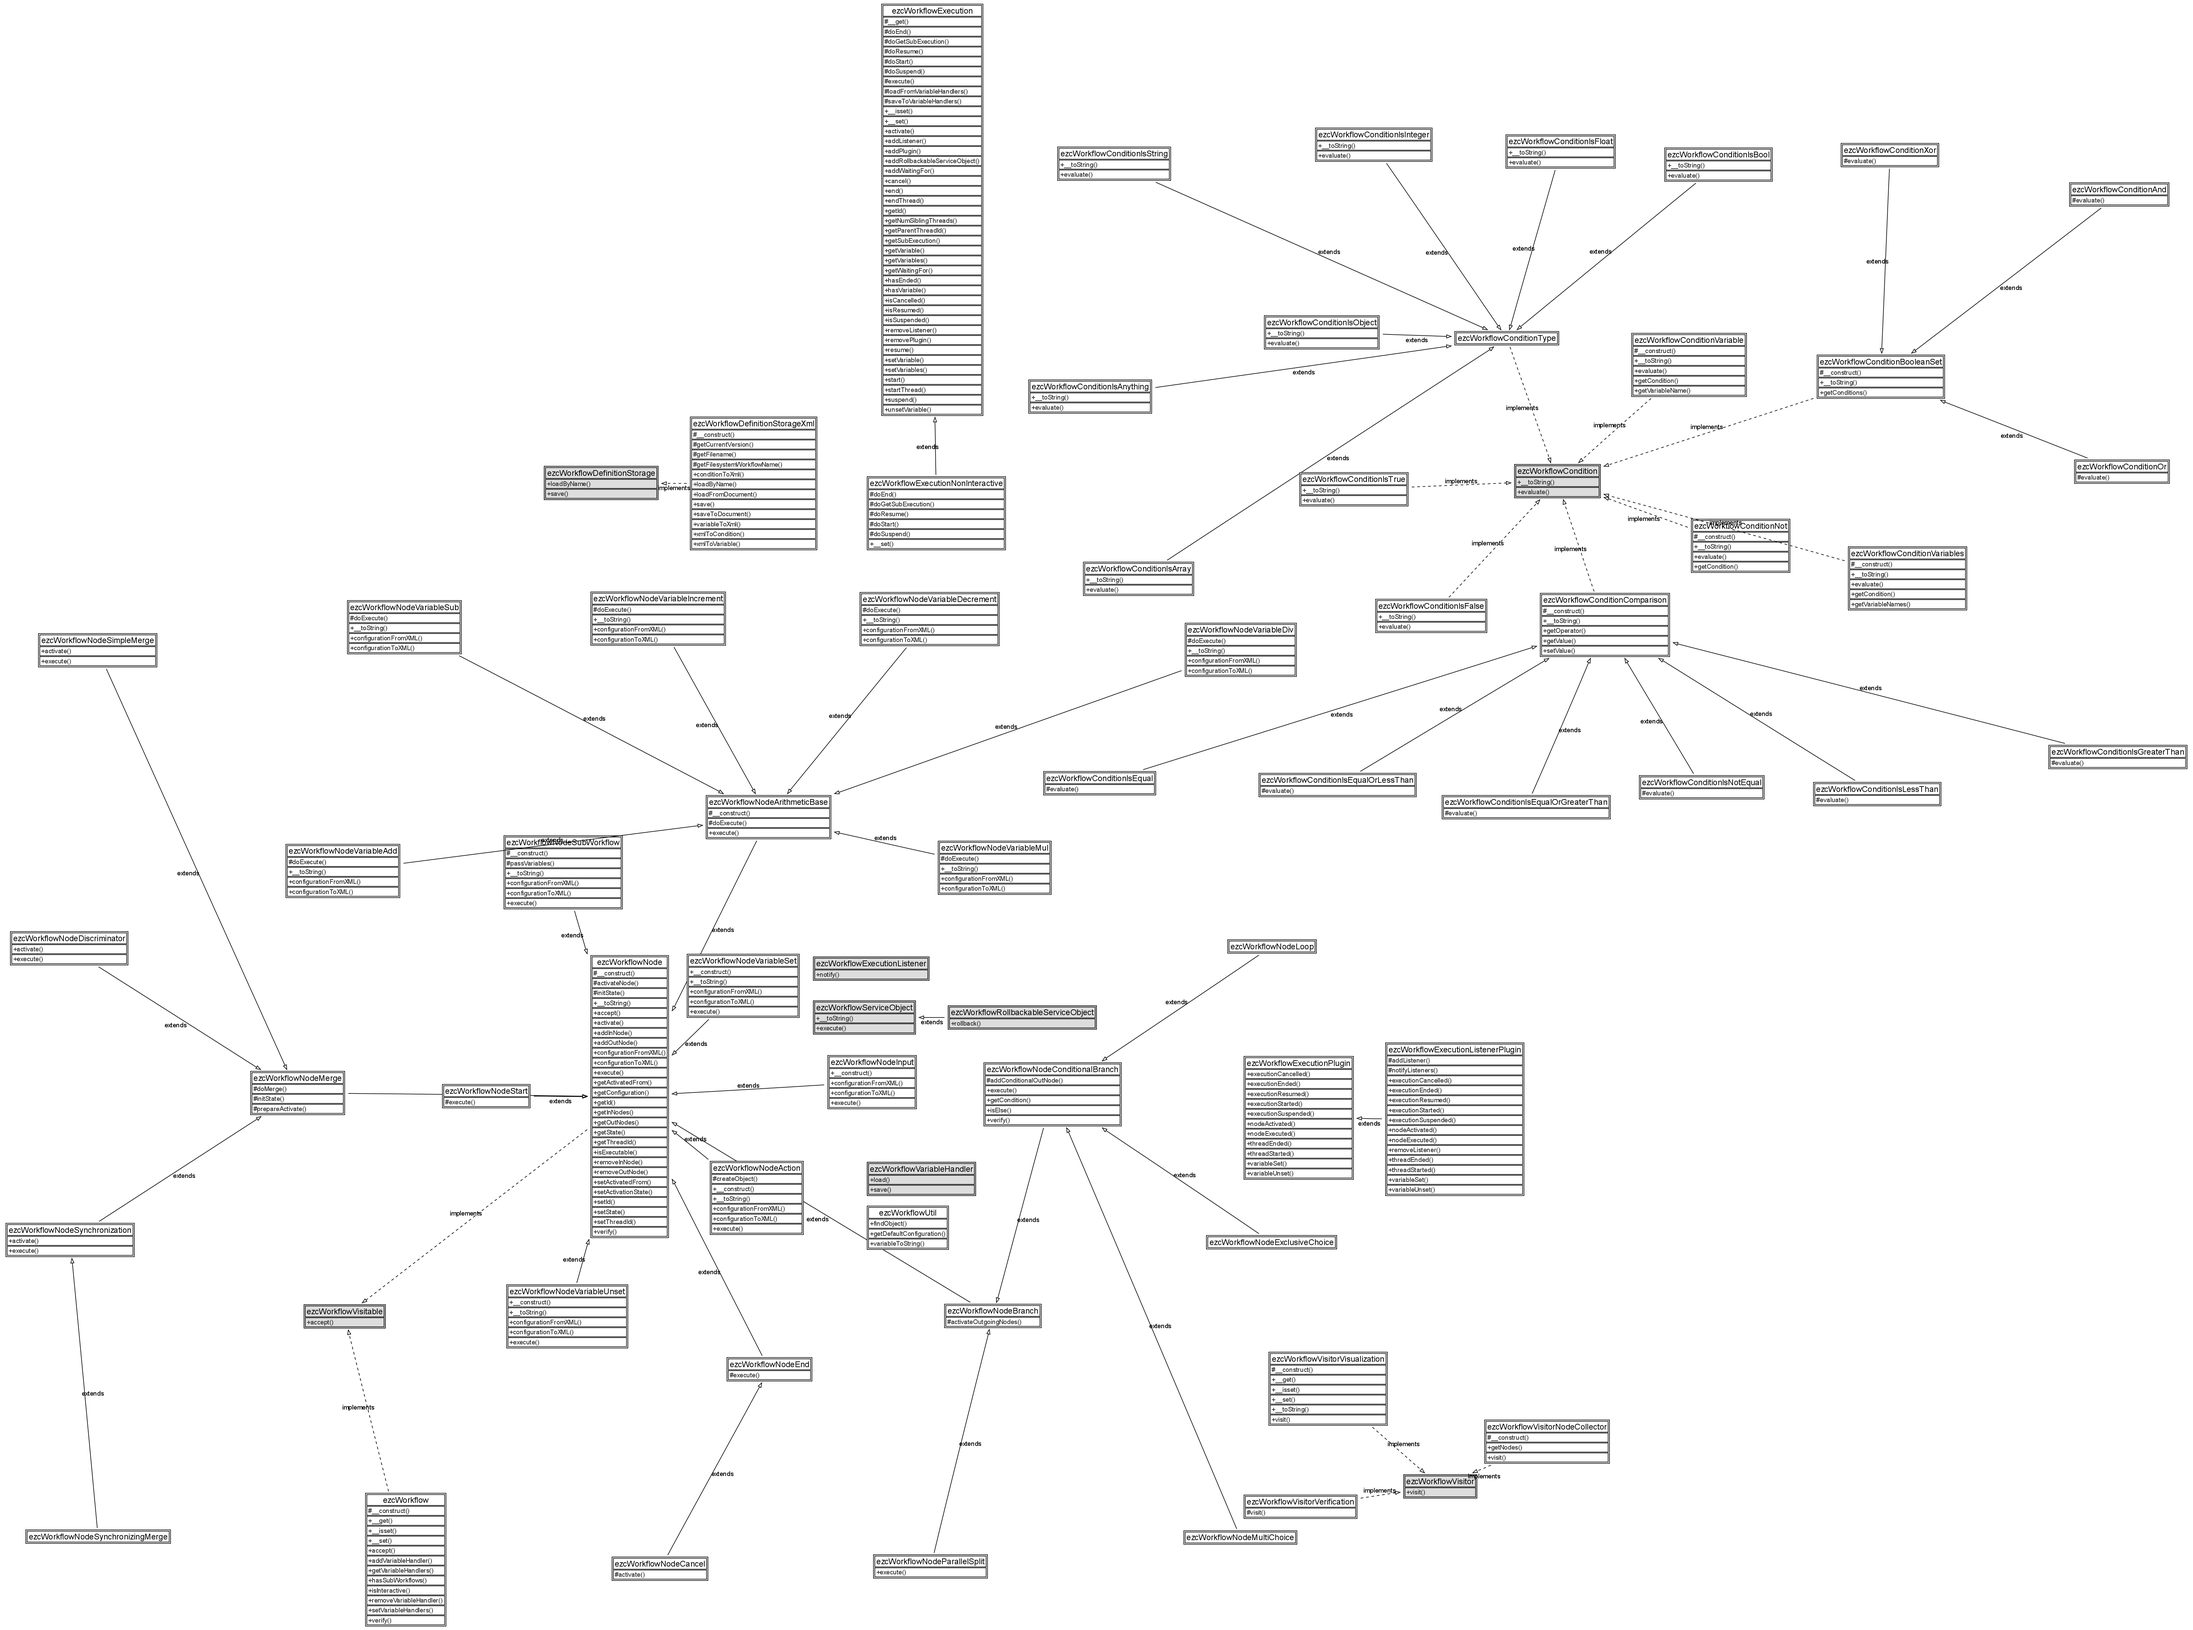
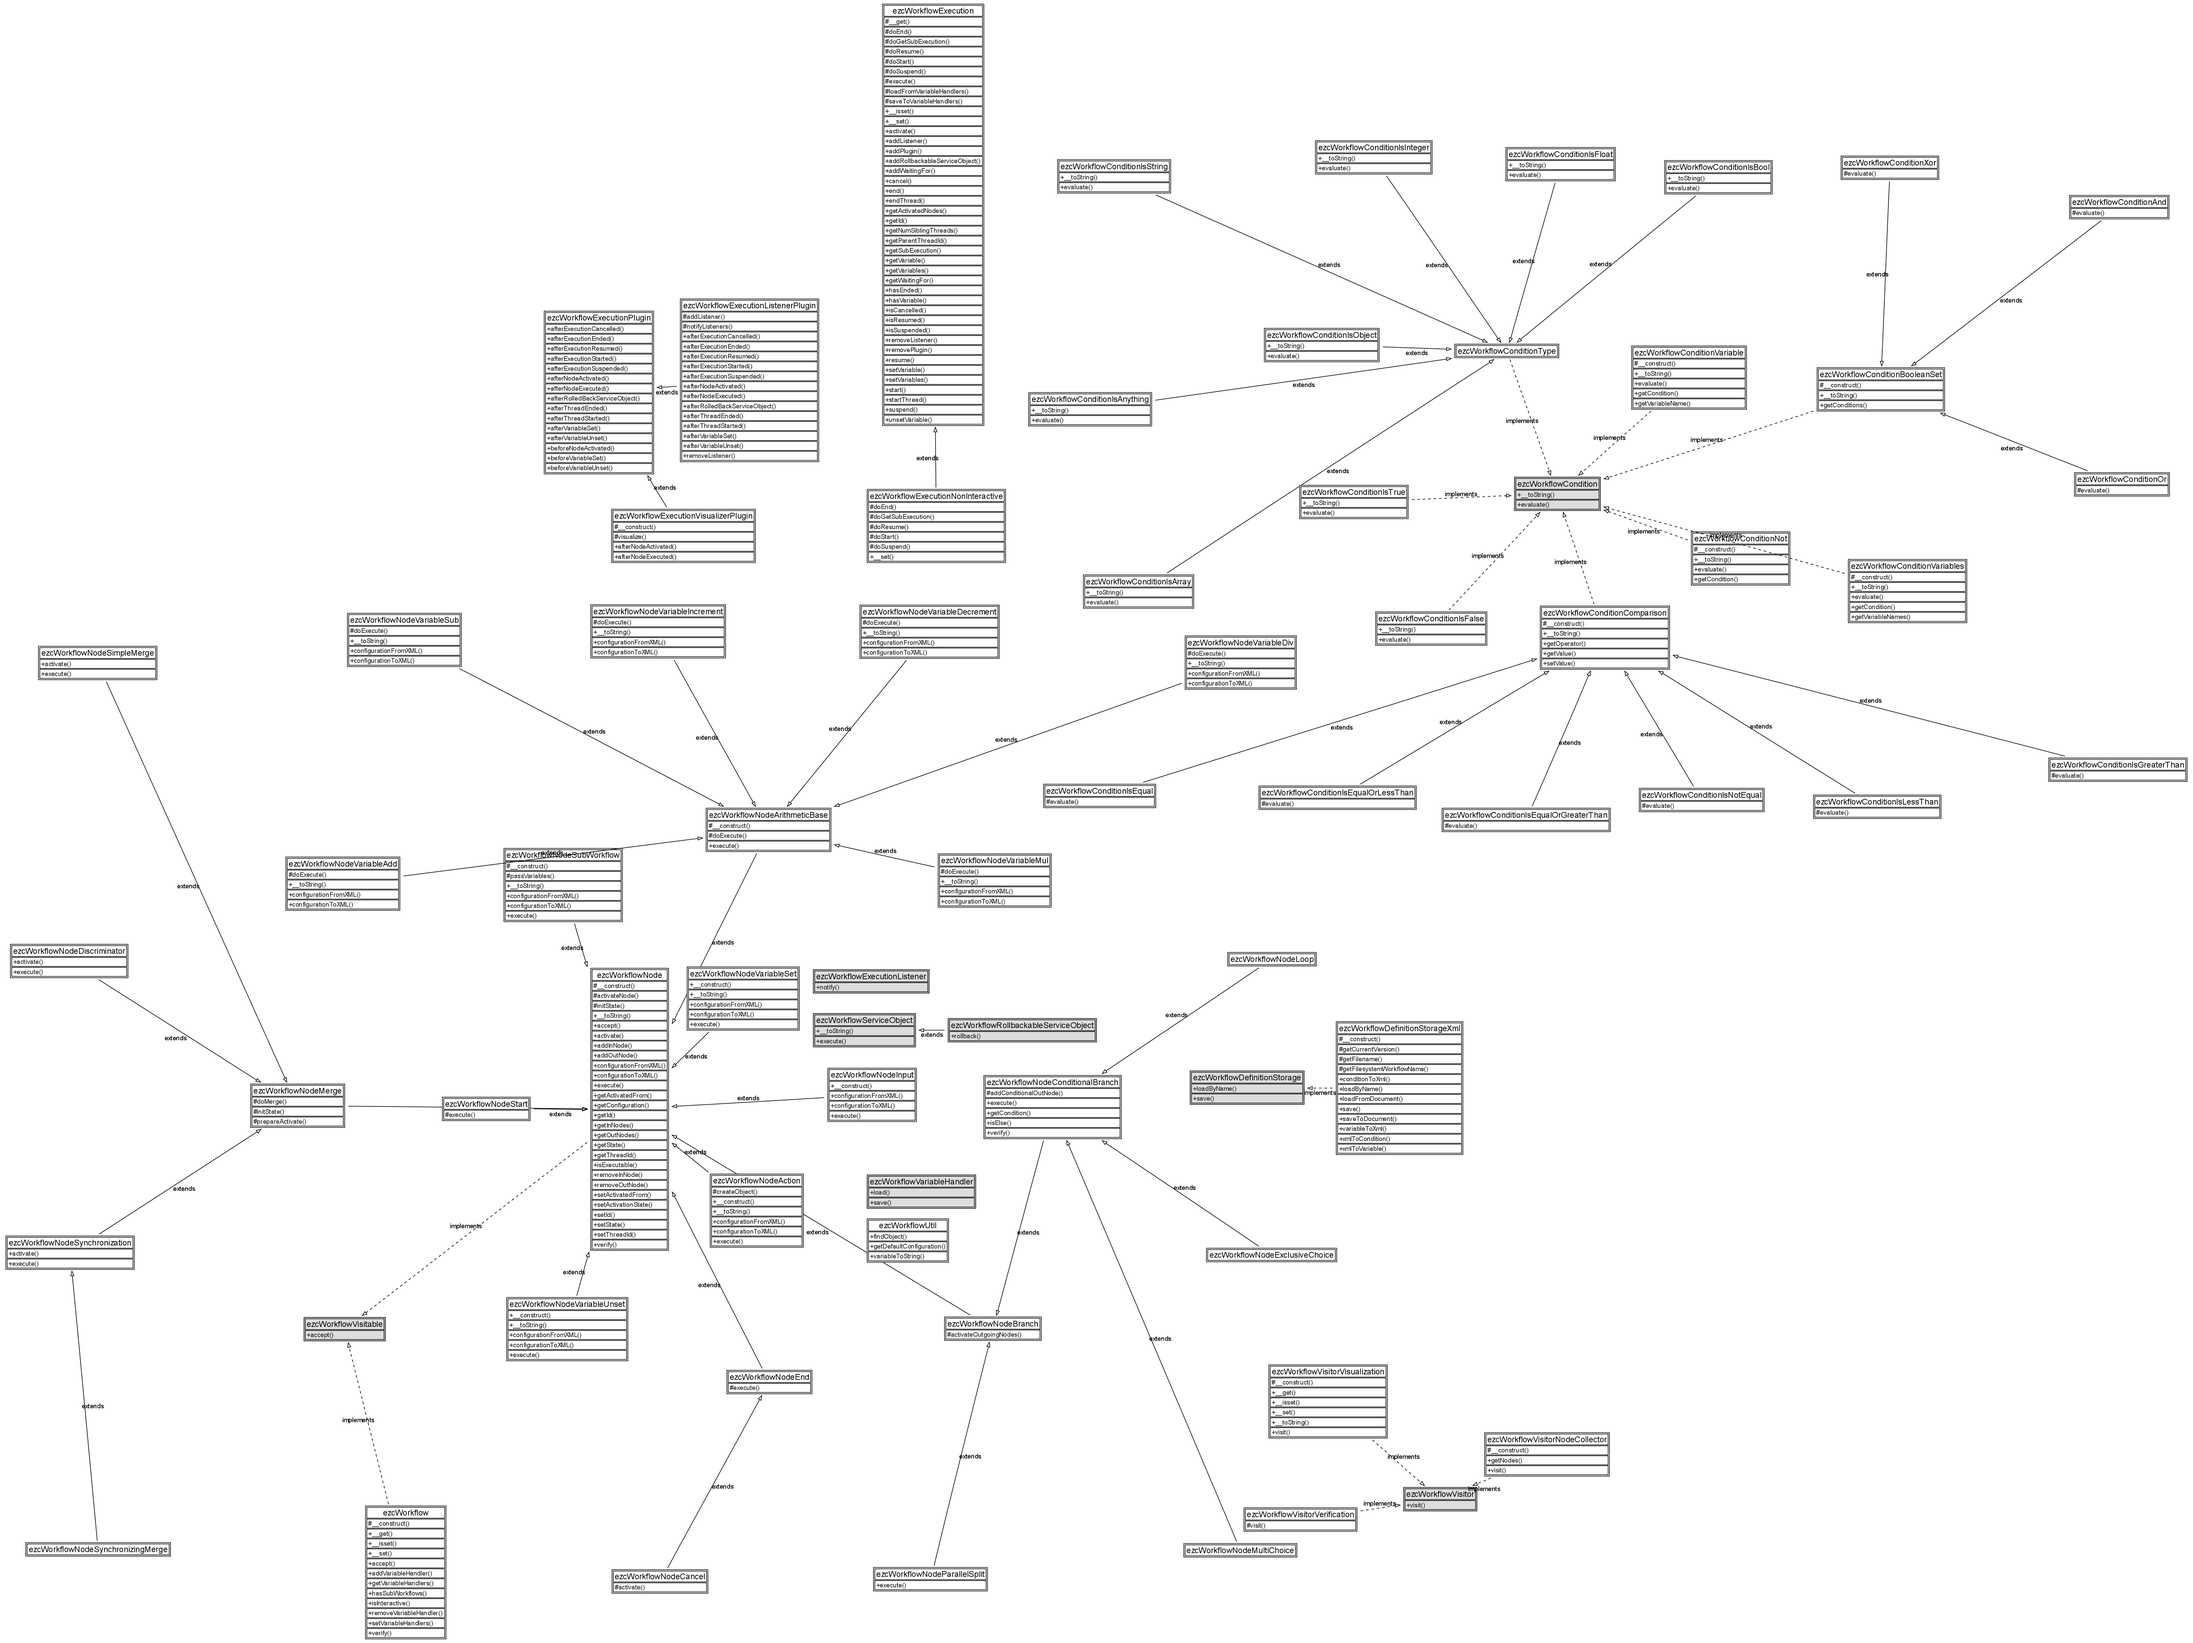
- Add ezcWorkflowExecutionVisualizerPlugin. # Reorganize plugin directory.
git-svn-id: http://svn.ez.no/svn/ezcomponents/trunk@7348 bc0e7bdc-f0fc-0310-8ff6-f601c06e1256

diff --git a/Workflow/src/execution/plugin/visualizer.php b/Workflow/src/execution/plugin/visualizer.php
@@ -1,0 +1,108 @@
+<?php
+/**
+ * File containing the ezcWorkflowExecutionVisualizerPlugin class.
+ *
+ * @package Workflow
+ * @version //autogen//
+ * @copyright Copyright (C) 2005-2008 eZ systems as. All rights reserved.
+ * @license http://ez.no/licenses/new_bsd New BSD License
+ */
+
+/**
+ * Execution plugin that visualizes the execution.
+ *
+ * @package Workflow
+ * @version //autogen//
+ */
+class ezcWorkflowExecutionVisualizerPlugin extends ezcWorkflowExecutionPlugin
+{
+    /**
+     * The directory to which the DOT files are written.
+     *
+     * @var string
+     */
+    protected $directory;
+
+    /**
+     * Filename counter.
+     *
+     * @var integer
+     */
+    protected $fileCounter = 0;
+
+    /**
+     * Constructor.
+     *
+     * @param  string $directory
+     * @throws ezcBaseFileNotFoundException when the directory does not exist
+     * @throws ezcBaseFilePermissionException when the directory is not writable
+     */
+    public function __construct( $directory )
+    {
+        if ( !is_dir( $directory ) )
+        {
+            throw new ezcBaseFileNotFoundException( $directory );
+        }
+
+        if ( !is_writable( $directory ) )
+        {
+            throw new ezcBaseFilePermissionException( $directory, ezcBaseFileException::WRITE );
+        }
+
+        $this->directory = $directory;
+    }
+
+    /**
+     * Called after a node has been activated.
+     *
+     * @param ezcWorkflowExecution $execution
+     * @param ezcWorkflowNode      $node
+     */
+    public function afterNodeActivated( ezcWorkflowExecution $execution, ezcWorkflowNode $node )
+    {
+        $this->visualize( $execution );
+    }
+
+    /**
+     * Called after a node has been executed.
+     *
+     * @param ezcWorkflowExecution $execution
+     * @param ezcWorkflowNode      $node
+     */
+    public function afterNodeExecuted( ezcWorkflowExecution $execution, ezcWorkflowNode $node )
+    {
+        $this->visualize( $execution );
+    }
+
+    /**
+     * Visualizes the current state of the workflow execution.
+     *
+     * @param ezcWorkflowExecution $execution
+     */
+    protected function visualize( ezcWorkflowExecution $execution )
+    {
+        $activatedNodes = array();
+
+        foreach ( $execution->getActivatedNodes() as $node )
+        {
+            $activatedNodes[] = $node->getId();
+        }
+
+        $visitor = new ezcWorkflowVisitorVisualization( $activatedNodes );
+        $execution->workflow->accept( $visitor );
+
+        file_put_contents(
+          sprintf(
+            '%s%s%s_%d_%d.dot',
+
+            $this->directory,
+            DIRECTORY_SEPARATOR,
+            $execution->workflow->name,
+            $execution->getId(),
+            ++$this->fileCounter
+          ),
+          $visitor->__toString()
+        );
+    }
+}
+?>

diff --git a/Workflow/src/workflow_autoload.php b/Workflow/src/workflow_autoload.php
@@ -56,8 +56,9 @@ return array(
     'ezcWorkflowConditionXor'                  => 'Workflow/conditions/xor.php',
     'ezcWorkflowDefinitionStorageXml'          => 'Workflow/definition_storage/xml.php',
     'ezcWorkflowExecutionListener'             => 'Workflow/interfaces/execution_listener.php',
-    'ezcWorkflowExecutionListenerPlugin'       => 'Workflow/execution/plugin/execution_listener.php',
+    'ezcWorkflowExecutionListenerPlugin'       => 'Workflow/execution/plugin/listener.php',
     'ezcWorkflowExecutionNonInteractive'       => 'Workflow/execution/non_interactive.php',
+    'ezcWorkflowExecutionVisualizerPlugin'     => 'Workflow/execution/plugin/visualizer.php',
     'ezcWorkflowNodeAction'                    => 'Workflow/nodes/action.php',
     'ezcWorkflowNodeCancel'                    => 'Workflow/nodes/cancel.php',
     'ezcWorkflowNodeDiscriminator'             => 'Workflow/nodes/control_flow/discriminator.php',
